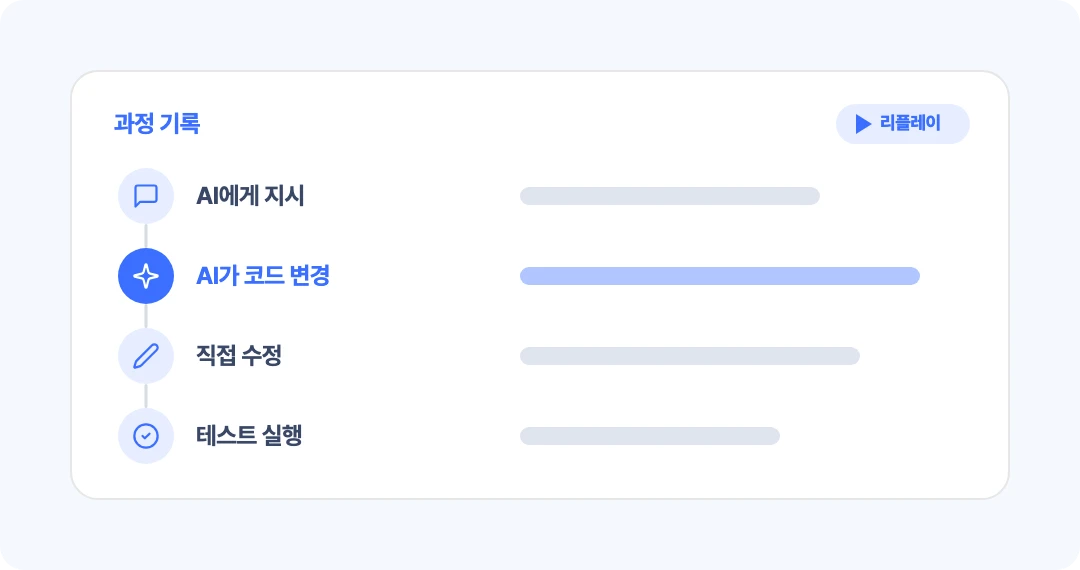
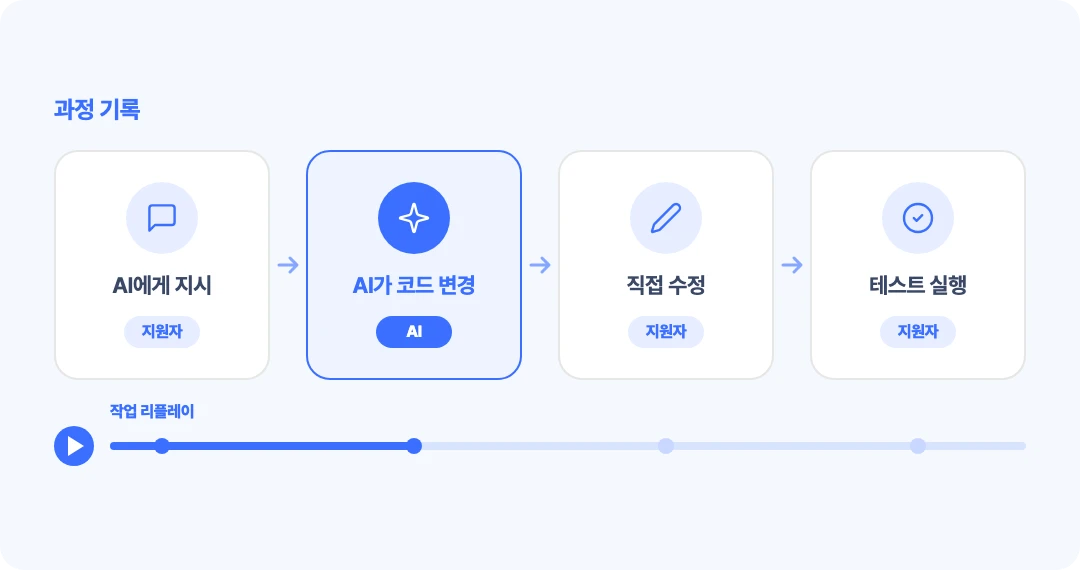
도식 ③ 크게, ④ 가로 4단계로(시안 A안)
- diagram-task.webp(③): 창이 패널 가로의 65%만 차지해 다른 도식보다 작아 보여서,
  창 비율은 그대로 두고 패널 가운데 기준 1.25배(875×425)로 키움.
  홈 제품 카드와 AI 역량검사 페이지에 함께 반영됨.
- diagram-process.webp(④): 세로 목록이라 읽기 어려워 가로 4단계 카드
  (AI에게 지시 → AI가 코드 변경 → 직접 수정 → 테스트 실행, 카드마다 지원자/AI 표시)
  + 아래 작업 리플레이 막대로. alt 문구도 맞춤.

diff --git a/app/ai-assessment/page.tsx b/app/ai-assessment/page.tsx
@@ -160,7 +160,7 @@ export default function AiAssessmentPage() {
                 <p>문제 설명이나 AI 답변을 그대로 붙여 넣은 지시는 기록되고, 본인이 쓴 지시로 평가하지 않습니다.</p>
               </div>
               <div className="hr-media">
-                <img className="hr-img" src="/diagram-process.webp" alt="과정 평가 도식: AI에게 지시, AI가 코드 변경, 직접 수정, 테스트 실행으로 이어지는 과정 기록과 리플레이" width={1080} height={570} loading="lazy" />
+                <img className="hr-img" src="/diagram-process.webp" alt="과정 평가 도식: AI에게 지시, AI가 코드 변경, 직접 수정, 테스트 실행 네 단계와 작업 리플레이" width={1080} height={570} loading="lazy" />
               </div>
             </div>
             <div className="how-row">
